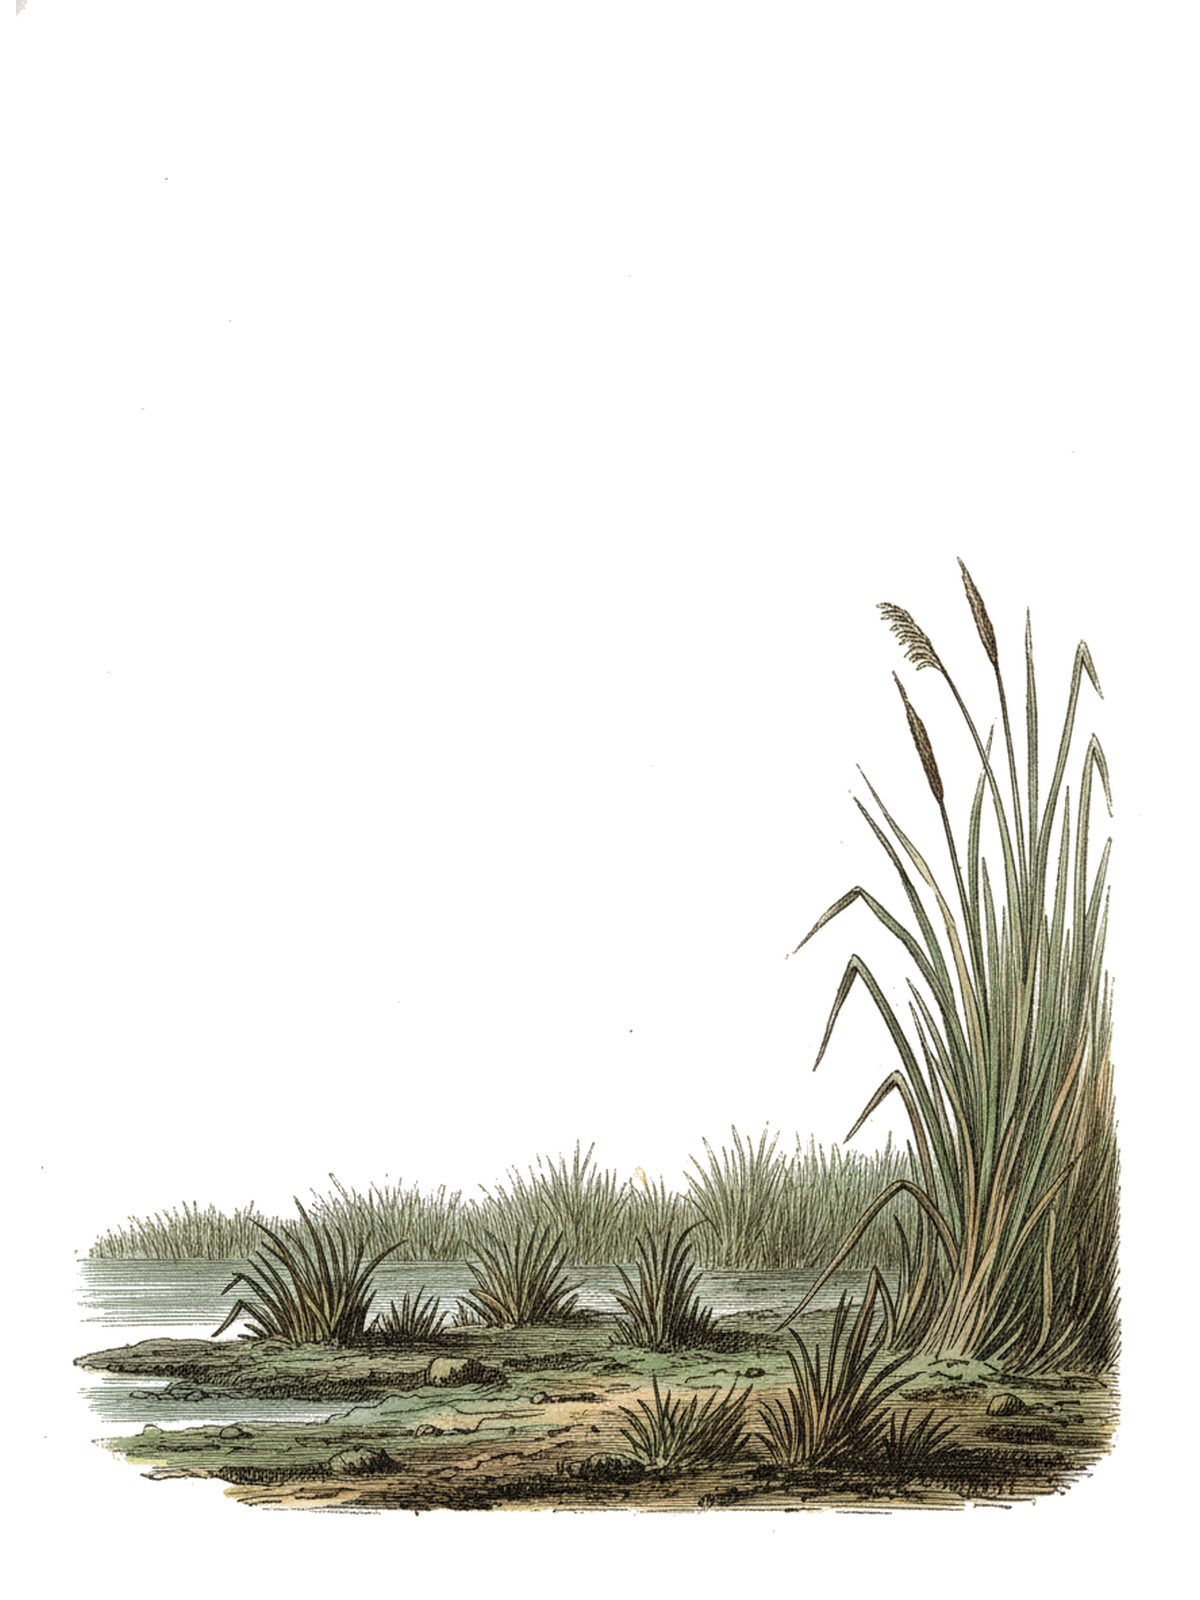
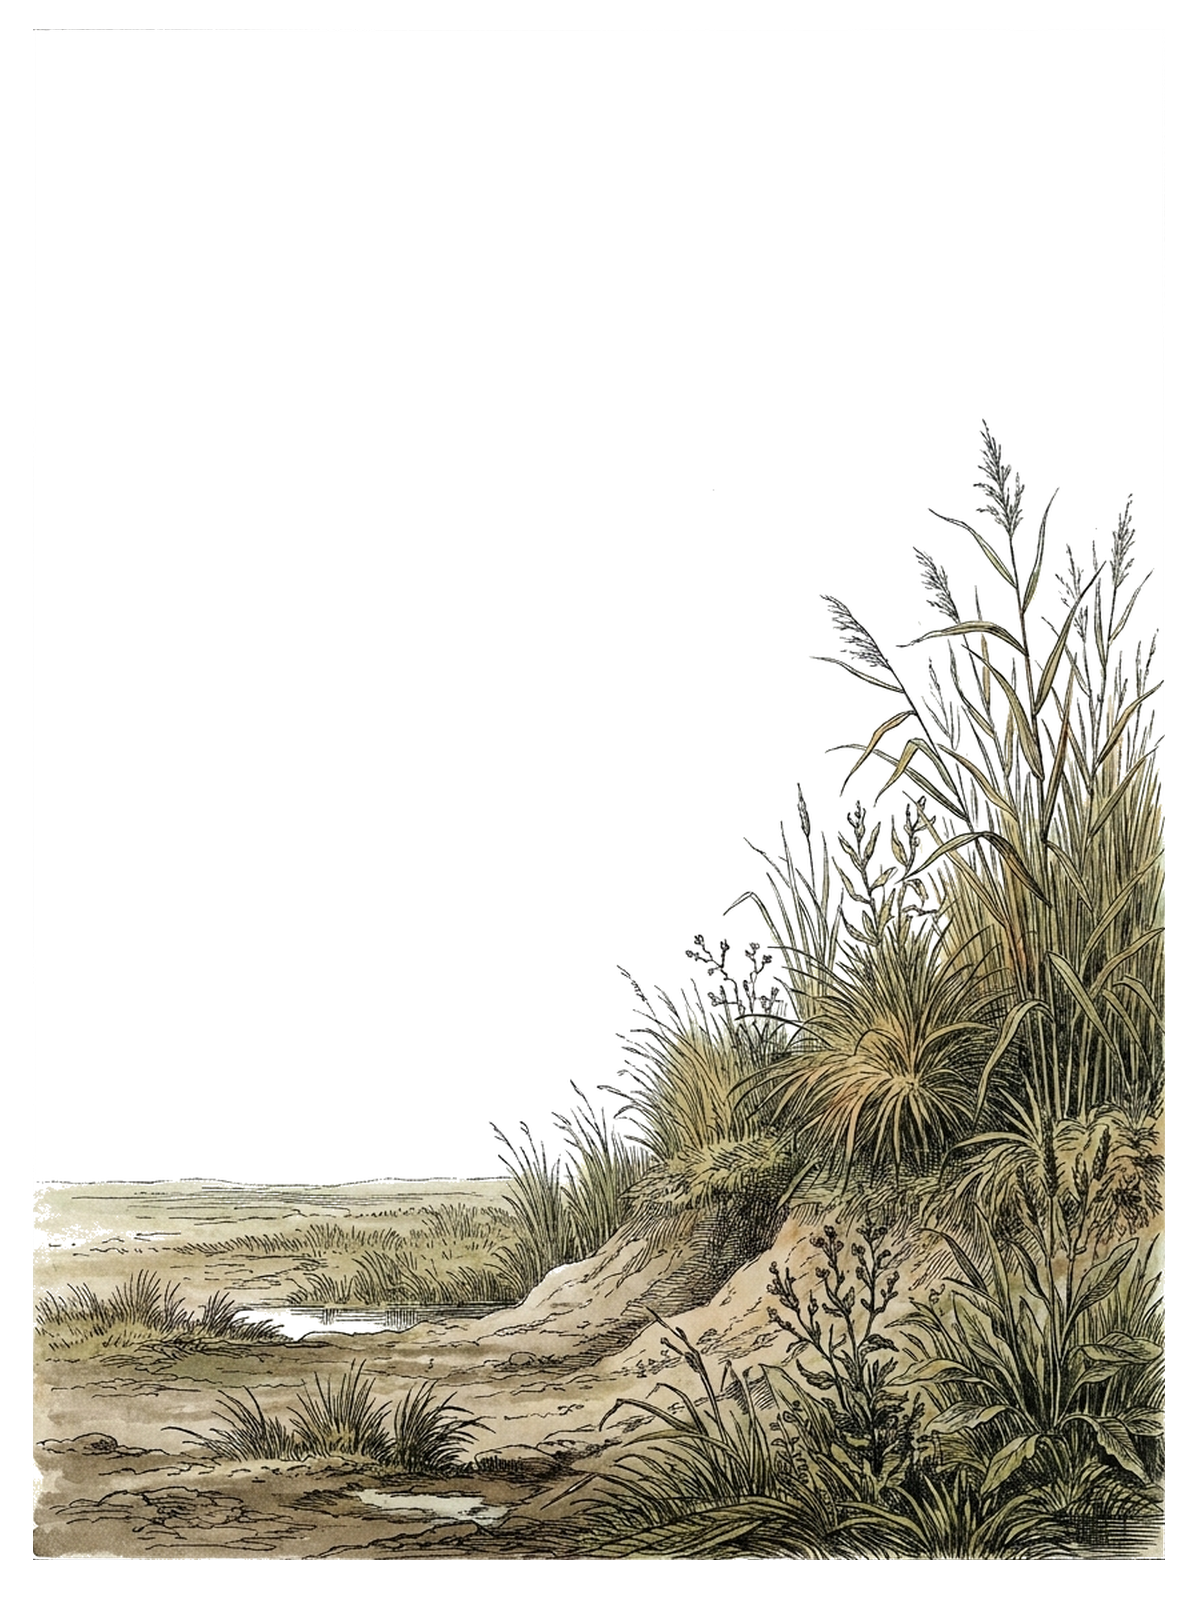
Listeboksen foelger teksten, ny myrmal, og merker som taaler travel bunn
Tre ting:

* Puta dekket greinene. Ruta til lista spenner rad 4-16, saa den hvite
  flaten strakte seg helt ned til nedre kant selv om teksten slutter rundt
  70 % av hoeyden. align-self:start gjoer boksen bare saa hoey som innholdet.

* Ny myrmal. Den gamle hadde sivkanten like hoeyt over hele bredden, saa det
  fantes bare ett baelte der en bakkefugl fikk kroppen mot lyst papir --
  derfor maatte de to vaderne staa oppaa hverandre. Den nye skraaner:
  horisonten ligger paa y~1180 til venstre og stiger til 444 til hoeyre, og
  mudderet til venstre er LYST. Det var tonen, ikke hoeyden, som slukte
  myrriksa -- moerkt sivgroent mot brun fugl. Paa blekt mudder leser den fint,
  og plasseringene kan ligge lavt igjen slik de gjorde foerst.

* Modellen tegner en ramme rundt arket uansett hvor tydelig prompten forbyr
  det -- tre forsoek paa rad paa myrmalen. Sonemaalingen fanger den ikke: en
  strek paa én piksel er promiller av sonen. fjern_ramme() leter etter en
  rad/kolonne naer kanten som er dekket over mer enn halve lengden, og hvitner
  den og alt utenfor. Kjoert over alle malene: bare myrmalen hadde en, saa
  sjekken skiller mellom ramme og motiv som gaar ut i kanten.

Merkene: naar det ikke finnes ren luft i naerheten -- typisk en bakkefugl der
den eneste hvite flekken ligger inne i tekstspalten -- velges den minst
travle flekken og tallet faar en hvit skive under seg. Ren #fff er en av
panelets seks farger, saa skiva blir like skarp som teksten. Foer dette mistet
[…]

Changed region(s): [[0.0, 0.25, 0.9867, 1.0]]

diff --git a/tools/compose_branch.py b/tools/compose_branch.py
@@ -679,6 +679,7 @@ def sjekk_foetter(ut: str) -> None:
 # lete oss fram til en aapen flekk i stedet for aa gjette fra layouten.
 MERKE = 40                                   # stoerrelsen paa flekken vi tester
 MERKE_HVIT = 252.0                           # snittnivaa som regnes som blankt
+MERKE_LYST = 236.0                           # reservekrav: lyst nok til svart tall
 
 
 def label_spots(ark: Image.Image, plassert: list[dict]) -> None:
@@ -691,7 +692,8 @@ def label_spots(ark: Image.Image, plassert: list[dict]) -> None:
     H, W = a.shape
     tatt: list[tuple] = []
 
-    def blankt(cx: int, cy: int) -> bool:
+
+    def blankt(cx: int, cy: int, grense: float = MERKE_HVIT) -> bool:
         if not (MERKE <= cx <= W - MERKE and MERKE <= cy <= H - MERKE):
             return False
         # Aldri inn i tekstspalten (venstre 48 %, ned til 75 % av hoeyden).
@@ -700,7 +702,7 @@ def label_spots(ark: Image.Image, plassert: list[dict]) -> None:
         if any(abs(cx - tx) < MERKE and abs(cy - ty) < MERKE for tx, ty in tatt):
             return False
         felt = a[cy - MERKE // 2:cy + MERKE // 2, cx - MERKE // 2:cx + MERKE // 2]
-        return bool(felt.size and felt.mean() > MERKE_HVIT)
+        return bool(felt.size and felt.mean() > grense)
 
     for sp in plassert:
         x0, y0, x1, y1 = sp["boks"]
@@ -712,14 +714,39 @@ def label_spots(ark: Image.Image, plassert: list[dict]) -> None:
                 kandidater.append((x0 - ut, y0 + int(h * fy)))
             kandidater.append(((x0 + x1) // 2, y0 - ut))
             kandidater.append(((x0 + x1) // 2, y1 + ut))
-        for cx, cy in kandidater:
-            if blankt(int(cx), int(cy)):
-                sp["merke"] = [int(cx), int(cy)]
-                tatt.append((int(cx), int(cy)))
-                break
-        else:
-            print(f"      (fant ingen aapen plass til merket for "
-                  f"{sp.get('common_name', '?')})")
+        # Foerst ren hvit flate. Finner vi ingen, godtar vi en lys en --
+        # myrmalens bleke mudder er ikke hvitt, men et svart tall leses fint
+        # mot det, og et tall er bedre enn ingen kobling til lista.
+        plass = next((k for k in kandidater if blankt(int(k[0]), int(k[1]))), None)
+        if plass is None:
+            plass = next((k for k in kandidater
+                          if blankt(int(k[0]), int(k[1]), MERKE_LYST)), None)
+        flate = False
+        if plass is None:
+            # Ingen aapen plass i det hele tatt -- typisk en bakkefugl der den
+            # eneste hvite luften ligger inne i tekstspalten. Da tar vi den
+            # minst travle flekken og ber sida legge en hvit skive under
+            # tallet. Ren hvit er en av panelets seks farger, saa skiva blir
+            # like skarp som teksten.
+            def travelhet(k):
+                cx, cy = int(k[0]), int(k[1])
+                if not (MERKE <= cx <= W - MERKE and MERKE <= cy <= H - MERKE):
+                    return 1e9
+                if cx < SPERRE_X and cy < SPERRE_Y:
+                    return 1e9
+                felt = a[cy - MERKE // 2:cy + MERKE // 2,
+                         cx - MERKE // 2:cx + MERKE // 2]
+                return -felt.mean() if felt.size else 1e9
+            plass = min(kandidater, key=travelhet)
+            if travelhet(plass) >= 1e9:
+                print(f"      (fant ingen plass til merket for "
+                      f"{sp.get('common_name', '?')})")
+                continue
+            flate = True
+
+        sp["merke"] = [int(plass[0]), int(plass[1])]
+        sp["merke_flate"] = flate
+        tatt.append((int(plass[0]), int(plass[1])))
 
 
 def kart(mal: dict) -> None:
@@ -733,6 +760,62 @@ def kart(mal: dict) -> None:
             continue
         seg = np.split(ink, np.where(np.diff(ink) > 12)[0] + 1)
         print(f"  x={x:4d}  overflater y={[int(s[0]) for s in seg if len(s) > 4]}")
+
+
+def fjern_ramme(img: Image.Image, kant: int = 45) -> tuple[Image.Image, bool]:
+    """Fjern en tegnet ramme rundt arket, hvis den finnes.
+
+    Modellen tegner den av og til uansett hvor tydelig prompten forbyr det --
+    myrmalen fikk en 1 px strek ~25 px inn, tre forsoek paa rad. Vi leter etter
+    en rad/kolonne naer hver kant som er dekket over mer enn halve lengden, og
+    hvitner den og alt UTENFOR den. Motivet ligger innenfor rammen, saa
+    ingenting av det gaar tapt.
+
+    Merk at det er ramma vi fjerner, ikke en marg: en mal der motivet faktisk
+    gaar helt ut i kanten (grenmalen) har ingen slik gjennomgaaende strek, og
+    blir staaende urort."""
+    a = np.asarray(img.convert("RGB")).copy()
+    H, W, _ = a.shape
+    moerk = a.mean(axis=2) < 225
+    funnet = False
+
+    for side in ("topp", "bunn", "venstre", "hoeyre"):
+        if side in ("topp", "bunn"):
+            rader = range(kant) if side == "topp" else range(H - 1, H - kant - 1, -1)
+            treff = [r for r in rader if moerk[r, :].mean() > 0.5]
+            if treff:
+                r = treff[0]
+                if side == "topp":
+                    a[:r + 3, :] = 255
+                else:
+                    a[r - 2:, :] = 255
+                funnet = True
+        else:
+            kols = range(kant) if side == "venstre" else range(W - 1, W - kant - 1, -1)
+            treff = [c for c in kols if moerk[:, c].mean() > 0.5]
+            if treff:
+                c = treff[0]
+                if side == "venstre":
+                    a[:, :c + 3] = 255
+                else:
+                    a[:, c - 2:] = 255
+                funnet = True
+
+    return Image.fromarray(a, "RGB"), funnet
+
+
+def har_ramme(img: Image.Image, kant: int = 45) -> bool:
+    """Har modellen tegnet en ramme rundt arket?
+
+    Sonemaalingen fanger den ikke -- en strek paa én piksel er promiller av
+    sonen -- men den er stygg og gjoer at malen ikke gaar helt ut i kanten.
+    Her ser vi etter en sammenhengende moerk strek langs OEVRE kant: er mer
+    enn halve bredden dekket der, er det en ramme og ikke motiv (myrmalen har
+    tomt papir oeverst, grenmalen har bare tynne kvister)."""
+    a = np.asarray(img.convert("RGB"), dtype=np.float32).mean(axis=2)
+    baand = a[:kant, :]
+    dekket = (baand < 225).any(axis=0).mean()
+    return bool(dekket > 0.5)
 
 
 def lag_mal(mal: dict, tries: int = 3) -> None:
@@ -761,15 +844,20 @@ def lag_mal(mal: dict, tries: int = 3) -> None:
         img = fit_to_panel(whiten(generate_image(
             mal["prompt"], ref_images=refs, aspect_ratio="3:4",
             model=PUSS_MODELL)))
+        img, ramme_fjernet = fjern_ramme(img)
+        if ramme_fjernet:
+            print("      (fjernet en tegnet ramme rundt arket)")
         soner = zone_report(img)
-        sum_verst = sum(v["verst"] for v in soner.values())
+        ramme = har_ramme(img)
+        sum_verst = sum(v["verst"] for v in soner.values()) + (1.0 if ramme else 0.0)
         print(f"  forsoek {forsoek}/{tries}: "
               + " ".join(f"{n}={v['blekk']*100:.1f}%/verst {v['verst']*100:.1f}%"
-                         for n, v in soner.items()))
+                         for n, v in soner.items())
+              + ("  RAMME rundt arket" if ramme else ""))
         if best_sum is None or sum_verst < best_sum:
             best, best_soner, best_sum = img, soner, sum_verst
-        if all(v["ren"] for v in soner.values()):
-            print("  alle soner rene — beholder denne")
+        if all(v["ren"] for v in soner.values()) and not ramme:
+            print("  alle soner rene og ingen ramme — beholder denne")
             break
 
     for navn, v in best_soner.items():
@@ -895,7 +983,8 @@ def main() -> int:
                          "norsk": norwegian_name(s["scientific_name"],
                                                  s["common_name"]),
                          "boks": s["boks"], "fot": s["fot"],
-                         "merke": s.get("merke")}
+                         "merke": s.get("merke"),
+                         "merke_flate": s.get("merke_flate", False)}
                         for s in plassert],
         }, f, indent=2, ensure_ascii=False)
     print(f"OK: {BG_PNG} — {len(plassert)} fugler paa malen " + mal["navn"]

diff --git a/tools/render_daily_panel.py b/tools/render_daily_panel.py
@@ -401,7 +401,9 @@ def build_html(birds: dict, weather: dict | None, pute: str = "maalt",
         ut = []
         for sci, n in nummer.items():
             mx, my = tegnet[sci]["merke"]
-            ut.append(f'<span class="markoer" style="left:{mx}px;top:{my}px">{n}</span>')
+            flate = " flate" if tegnet[sci].get("merke_flate") else ""
+            ut.append(f'<span class="markoer{flate}" '
+                      f'style="left:{mx}px;top:{my}px">{n}</span>')
         return "".join(ut)
 
     markoerer = _markoerer()
@@ -604,8 +606,11 @@ def build_html(birds: dict, weather: dict | None, pute: str = "maalt",
      bokser lot vaerboksen ligge midt oppe paa illustrasjonen; nå holder all
      teksten seg i den samme tomme spalten modellen ble bedt om aa la staa. */
   .overlegg .info  {{ grid-column:1/6; grid-row:1/4; align-self:start; }}
+  /* align-self:start er poenget: uten den strekker ruta seg til rad 16, og
+     den hvite puta dekker hele venstre halvdel helt ned til nedre kant --
+     oppaa greinene. Naa er boksen bare saa hoey som teksten i den. */
   .overlegg .liste {{ grid-column:1/6; grid-row:4/16; padding-top:26px;
-                      overflow:hidden; }}
+                      align-self:start; overflow:hidden; }}
   /* Kilde og sum staar naa under lista i venstrespalten, ikke som en strek
      tvers over arket -- da faar illustrasjonen hele hoeyden. */
   .overlegg .kilde {{ font-size:16px; line-height:1.45; padding-top:14px;
@@ -638,6 +643,9 @@ def build_html(birds: dict, weather: dict | None, pute: str = "maalt",
               margin:-17px 0 0 -17px;          /* sentrer paa punktet */
               display:flex; align-items:center; justify-content:center;
               font-size:25px; line-height:1; color:var(--blekk); }}
+  /* Naar tallet maa staa oppaa motivet: en hvit skive under. Ren #fff er en
+     av panelets seks farger, saa den blir like skarp som teksten. */
+  .markoer.flate {{ background:var(--papir); border-radius:50%; }}
   .art {{ padding:11px 0; border-bottom:1px solid var(--blekk); }}
   .art .l1 {{ display:flex; justify-content:space-between; align-items:baseline;
               font-size:26px; line-height:1.15; }}
